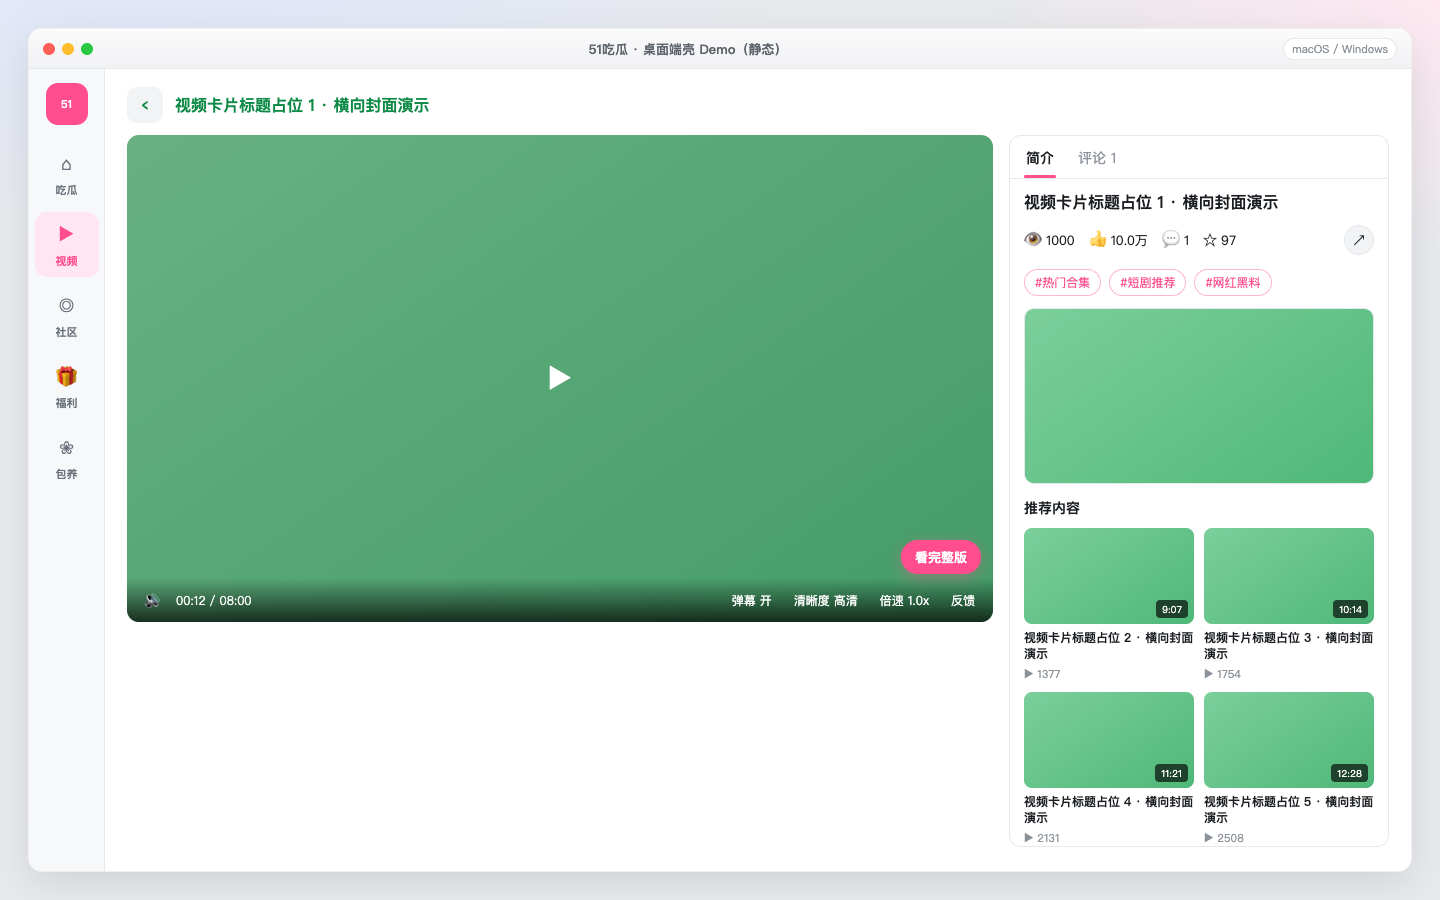
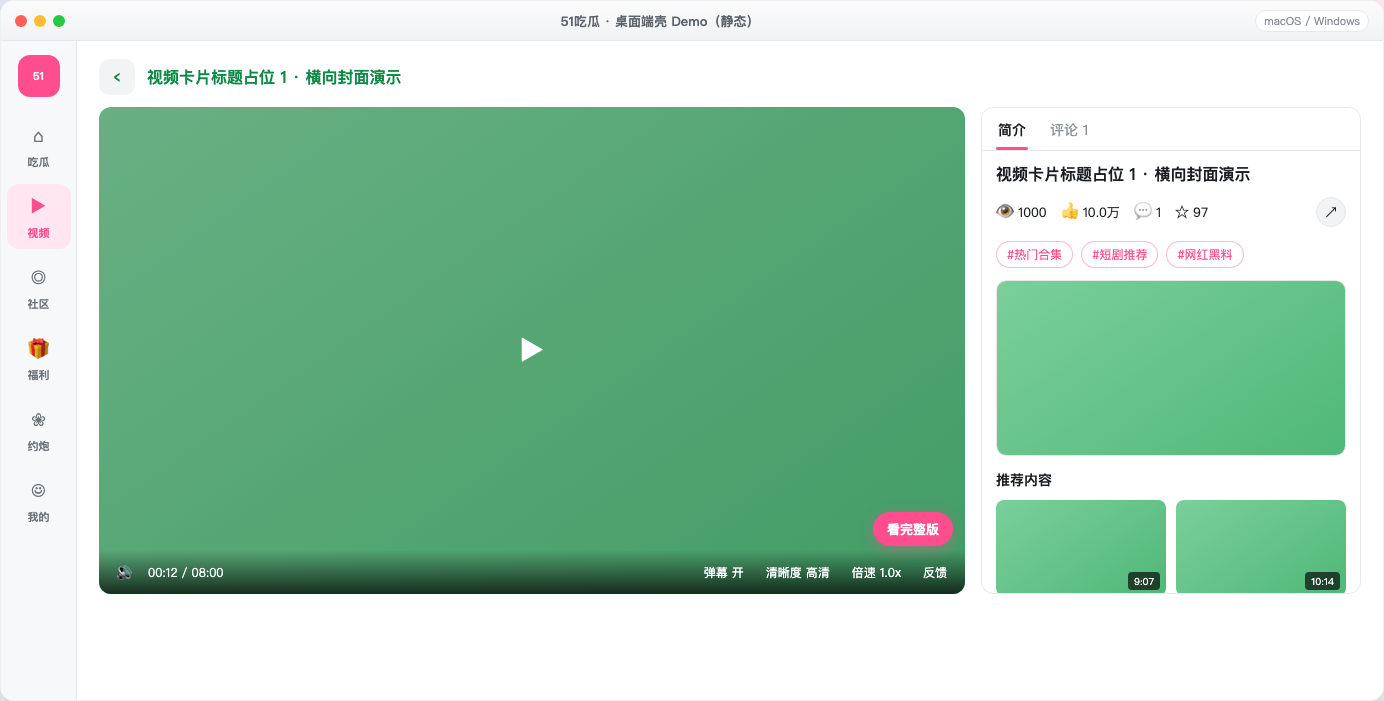
Adjust video detail layout to 16:9
Update the demo and PRD to specify a 16:9 rounded player with the right panel aligned to its height, and refresh the video detail screenshot.

diff --git a/51chiguadesk/desktop-pwa-shell-prd.html b/51chiguadesk/desktop-pwa-shell-prd.html
@@ -232,7 +232,7 @@ body {
           <tr><td>FC-SR-02</td><td>搜索</td><td>结果双类型</td><td>文章 Tab 用首页卡；帖子 Tab 默认卡片可切贴吧模式</td><td></td></tr>
           <tr><td>FC-SR-03</td><td>搜索</td><td>标签二级</td><td>热门标签进纯文章列表页</td><td></td></tr>
           <tr><td>FC-VD-01</td><td>视频</td><td>列表页</td><td>搜索、分类、广告、筛选、三列卡与解锁角标</td><td>本期范围</td></tr>
-          <tr><td>FC-VD-02</td><td>视频</td><td>详情页</td><td>B 站式左播放右简介/评论；播放器框与主区窗口等高、画面自适应；看完整版扣币/开通</td><td>本期范围</td></tr>
+          <tr><td>FC-VD-02</td><td>视频</td><td>详情页</td><td>B 站式左播放右简介/评论；播放器框随窗口宽高自适应，框内长边顶满短边留黑；看完整版扣币/开通</td><td>本期范围</td></tr>
           <tr><td>FC-CM-01</td><td>社区</td><td>推荐流</td><td>Banner、公告、话题横滑、筛选、卡片/贴吧切换</td><td></td></tr>
           <tr><td>FC-CM-02</td><td>社区</td><td>发现页</td><td>三卡、筛选、话题、APP 帖子流</td><td></td></tr>
           <tr><td>FC-CM-03</td><td>社区</td><td>话题二级</td><td>信息卡在上、筛选在下、默认卡片可切贴吧；发布带默认话题</td><td></td></tr>
@@ -636,7 +636,9 @@ body {
       <p>视频详情为 B 站式左右分栏沉浸页：左侧播放器 + 控制底栏 +「看完整版」；右侧「简介 / 评论」Tab。进入详情隐藏壳层右侧栏。播放完整版需满足会员或金币解锁条件。</p>
       <h3>业务规则</h3>
       <ul>
-        <li>左侧播放器框高度与主区可用窗口高度一致（随窗口缩放贴满左侧可用高度）；框内视频画面等比自适应（contain），不足处留黑边。</li>
+        <li>顶栏为返回 + 视频标题（在播放器上方，不叠在画面上）。</li>
+        <li>左侧播放器框宽高随窗口（主区可用区域）宽高同步自适应，贴满左侧播放区域。</li>
+        <li>框内视频画面按播放器当前宽高等比适配：长边顶满播放器，短边留黑边（letterbox / pillarbox）。</li>
         <li>左侧播放器底栏控件：静音、时长进度、弹幕开关、清晰度、倍速、反馈。</li>
         <li>「看完整版」分支：
           <ul>
@@ -647,11 +649,11 @@ body {
         </li>
         <li>右侧默认「简介」Tab：标题、浏览 / 点赞 / 评论 / 收藏 / 分享、标签、广告位、推荐列表（上图下文，一排 2 卡）。</li>
         <li>「评论」Tab：评论列表区域可滚动；输入框固定在右侧面板底部。</li>
-        <li>布局为左右分栏（B 站式）；右侧栏高度与左侧播放区对齐。</li>
+        <li>布局为左右分栏（B 站式）；右侧栏高度与左侧播放器框对齐，栏内滚动。</li>
       </ul>
       <h3>页面交互</h3>
       <ul>
-        <li>进入详情 / 窗口缩放：左侧播放器框始终与主区窗口可用高度一致；框内画面按比例缩放适配，控制底栏与「看完整版」叠在播放器框内。</li>
+        <li>进入详情 / 窗口缩放：播放器框宽高与窗口（主区可用区域）宽高同步自适应；框内画面按播放器宽高等比适配（长边顶满、短边留黑）；控制底栏与「看完整版」叠在播放器框内；右侧栏保持与播放器同高。</li>
         <li>点简介 / 评论 Tab：切换右侧面板内容。</li>
         <li>点「看完整版」：按会员 / 金币状态打开开通、扣币确认或买币引导；成功后播放器可播完整版并更新角标态。</li>
         <li>点赞 / 收藏 / 分享：分享复制链接 Toast「分享链接已复制」；赞藏即时更新。</li>
@@ -1087,7 +1089,7 @@ body {
           <tr><td>FC-SR-02</td><td>文章/帖子 Tab；帖子默认可切贴吧；返回先回发现态</td><td>☐</td></tr>
           <tr><td>FC-SR-03</td><td>标签纯文章二级；无效标签 Toast 并回发现态</td><td>☐</td></tr>
           <tr><td>FC-VD-01</td><td>分类+广告+筛选+三列卡；角标 VIP/金币；标题时间同行</td><td>☐</td></tr>
-          <tr><td>FC-VD-02</td><td>B 站分栏；播放器框与主区窗口等高、画面 contain 自适应；底栏控件；看完整版会员/扣币/买币分支；评论底栏</td><td>☐</td></tr>
+          <tr><td>FC-VD-02</td><td>B 站分栏；顶栏返回+标题；播放器框随窗口宽高自适应；框内长边顶满短边留黑；右栏与播放器等高；底栏控件；看完整版会员/扣币/买币分支；评论底栏</td><td>☐</td></tr>
           <tr><td>FC-CM-01</td><td>Banner/公告/话题/筛选/四列与布局切换；发布无默认话题</td><td>☐</td></tr>
           <tr><td>FC-CM-02</td><td>三卡→筛选→方话题→APP 流；点关注不进详情</td><td>☐</td></tr>
           <tr><td>FC-CM-03</td><td>信息卡在上筛选在下；发布预填话题；社区侧栏在</td><td>☐</td></tr>

diff --git a/51chiguadesk/desktop-pwa-shell-demo.html b/51chiguadesk/desktop-pwa-shell-demo.html
@@ -3791,28 +3791,28 @@
     min-height: 0;
     overflow: hidden;
   }
-  .vd-mode { display: none; height: 100%; min-height: 0; }
+  .vd-mode { display: none; min-height: 0; }
   .vd-mode.active { display: flex; }
-
-  /* B 站式：左播放器；右栏简介/评论。简介下广告+推荐；评论下输入框+列表 */
-  .vd-bili {
-    flex-direction: row;
-    gap: 16px;
+  #vd-mode-bili.active {
+    position: relative;
+    height: auto;
+    max-height: 100%;
+    display: block;
   }
+
+  /* B 站式：顶栏返回+标题；左 16:9 圆角播放器；右栏与播放器等高；框内画面自适应 */
   .vd-bili-main {
-    flex: 1;
+    width: calc(100% - min(380px, 36%) - 16px);
     min-width: 0;
     display: flex;
     flex-direction: column;
-    min-height: 0;
   }
-  /* 播放器框贴满左侧可用高度（与主区窗口等高）；框内画面等比自适应 */
   .vd-bili-player {
     border-radius: var(--radius);
     overflow: hidden;
+    aspect-ratio: 16 / 9;
     position: relative;
-    flex: 1;
-    min-height: 0;
+    flex-shrink: 0;
     width: 100%;
     background: #111;
     display: flex;
@@ -3954,12 +3954,14 @@
   }
   .vd-bili-bar .spacer { flex: 1; min-width: 8px; }
   .vd-bili-side {
+    position: absolute;
+    top: 0;
+    right: 0;
+    bottom: 0;
     width: min(380px, 36%);
-    flex: 0 0 min(380px, 36%);
     min-width: 280px;
     display: flex;
     flex-direction: column;
-    min-height: 0;
     overflow: hidden;
     border: 1px solid var(--line);
     border-radius: var(--radius);
